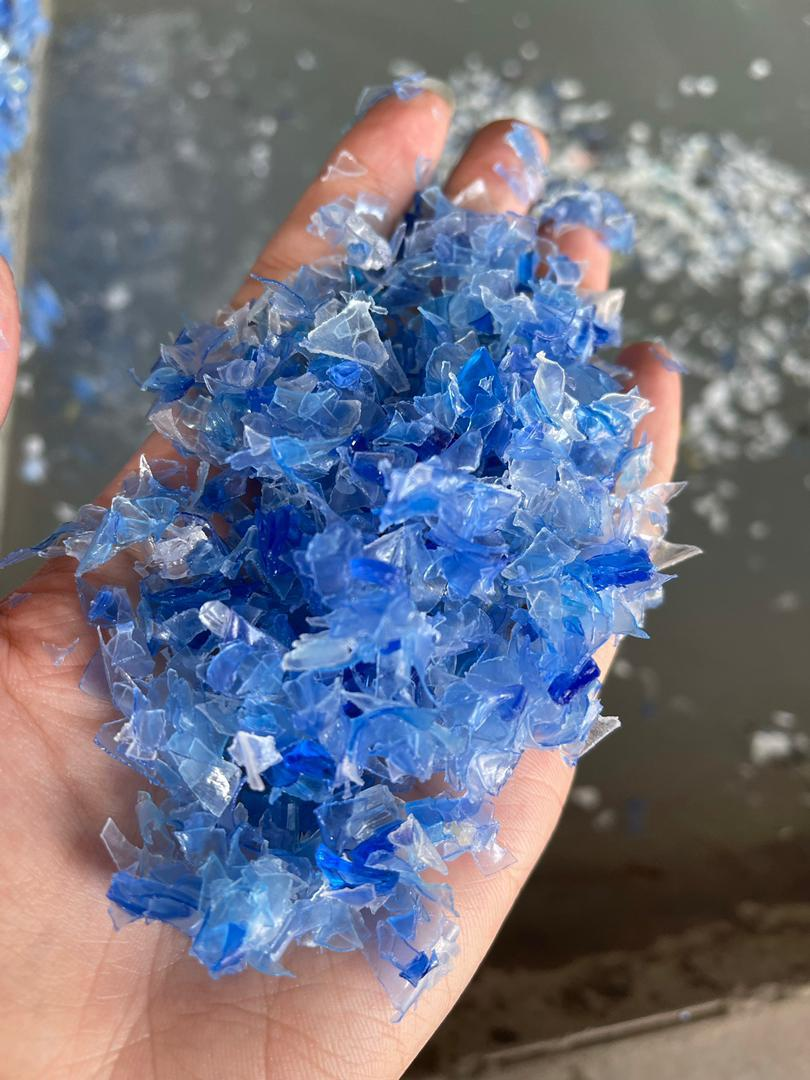
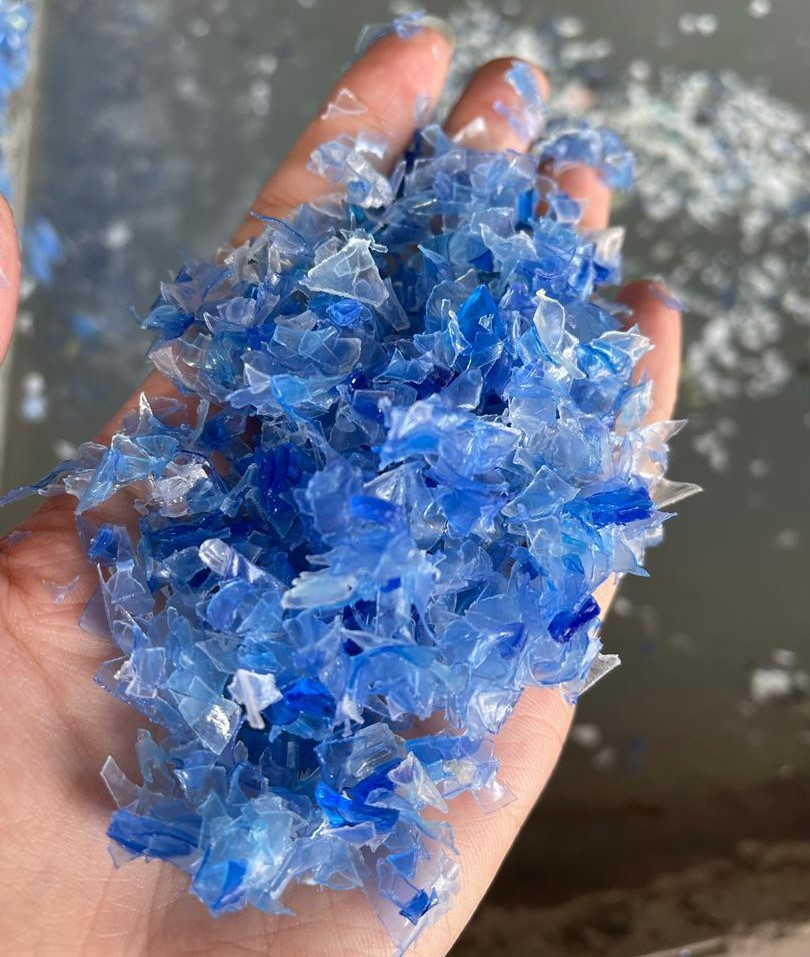
add pics

diff --git a/index.html b/index.html
@@ -334,6 +334,30 @@
                 </div>
               </div>
             </div><!-- End Projects Item -->
+
+            <div class="col-lg-4 col-md-6 portfolio-item filter-pet">
+              <div class="portfolio-content h-100">
+                <img src="assets/img/pet/pet-12.jpg" class="img-fluid" alt="">
+                <div class="portfolio-info">
+                  <h4>PET 12</h4>
+                  
+                  <a href="assets/img/pet/pet-12.jpg" title="pet-12" data-gallery="portfolio-gallery-remodeling" class="glightbox preview-link"><i class="bi bi-zoom-in"></i></a>
+                  <a href="project-details.html" title="More Details" class="details-link"><i class="bi bi-link-45deg"></i></a>
+                </div>
+              </div>
+            </div><!-- End Projects Item -->
+
+            <div class="col-lg-4 col-md-6 portfolio-item filter-pet">
+              <div class="portfolio-content h-100">
+                <img src="assets/img/pet/pet-8.jpg" class="img-fluid" alt="">
+                <div class="portfolio-info">
+                  <h4>PET 8</h4>
+                  
+                  <a href="assets/img/pet/pet-8.jpg" title="palm-8" data-gallery="portfolio-gallery-remodeling" class="glightbox preview-link"><i class="bi bi-zoom-in"></i></a>
+                  <a href="project-details.html" title="More Details" class="details-link"><i class="bi bi-link-45deg"></i></a>
+                </div>
+              </div>
+            </div><!-- End Projects Item -->
         
           </div><!-- End Projects Container -->
         </div>
